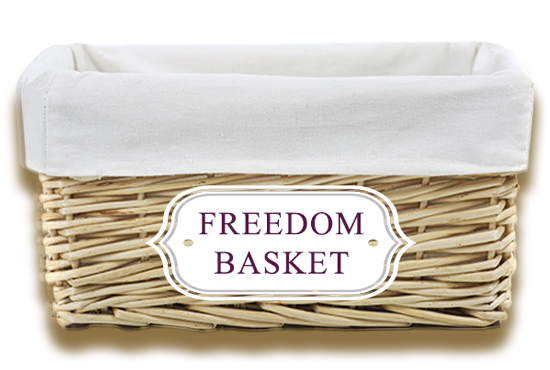
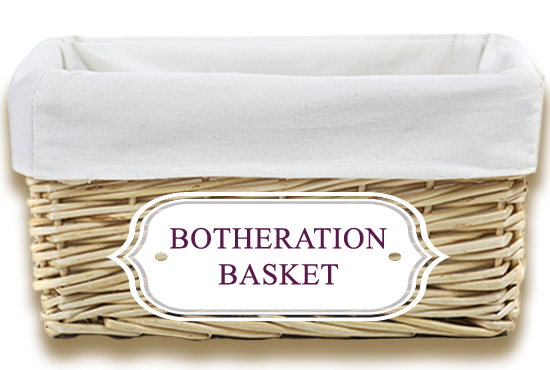
botheration basket update and sizing

diff --git a/gp.html b/gp.html
@@ -165,7 +165,7 @@
   }
 
   .bgimg {
-    background-image: url('background_4.jpeg');
+    background-image: url('background_3.jpeg');
     height: 100%;
     background-position: center;
     background-size: cover;
